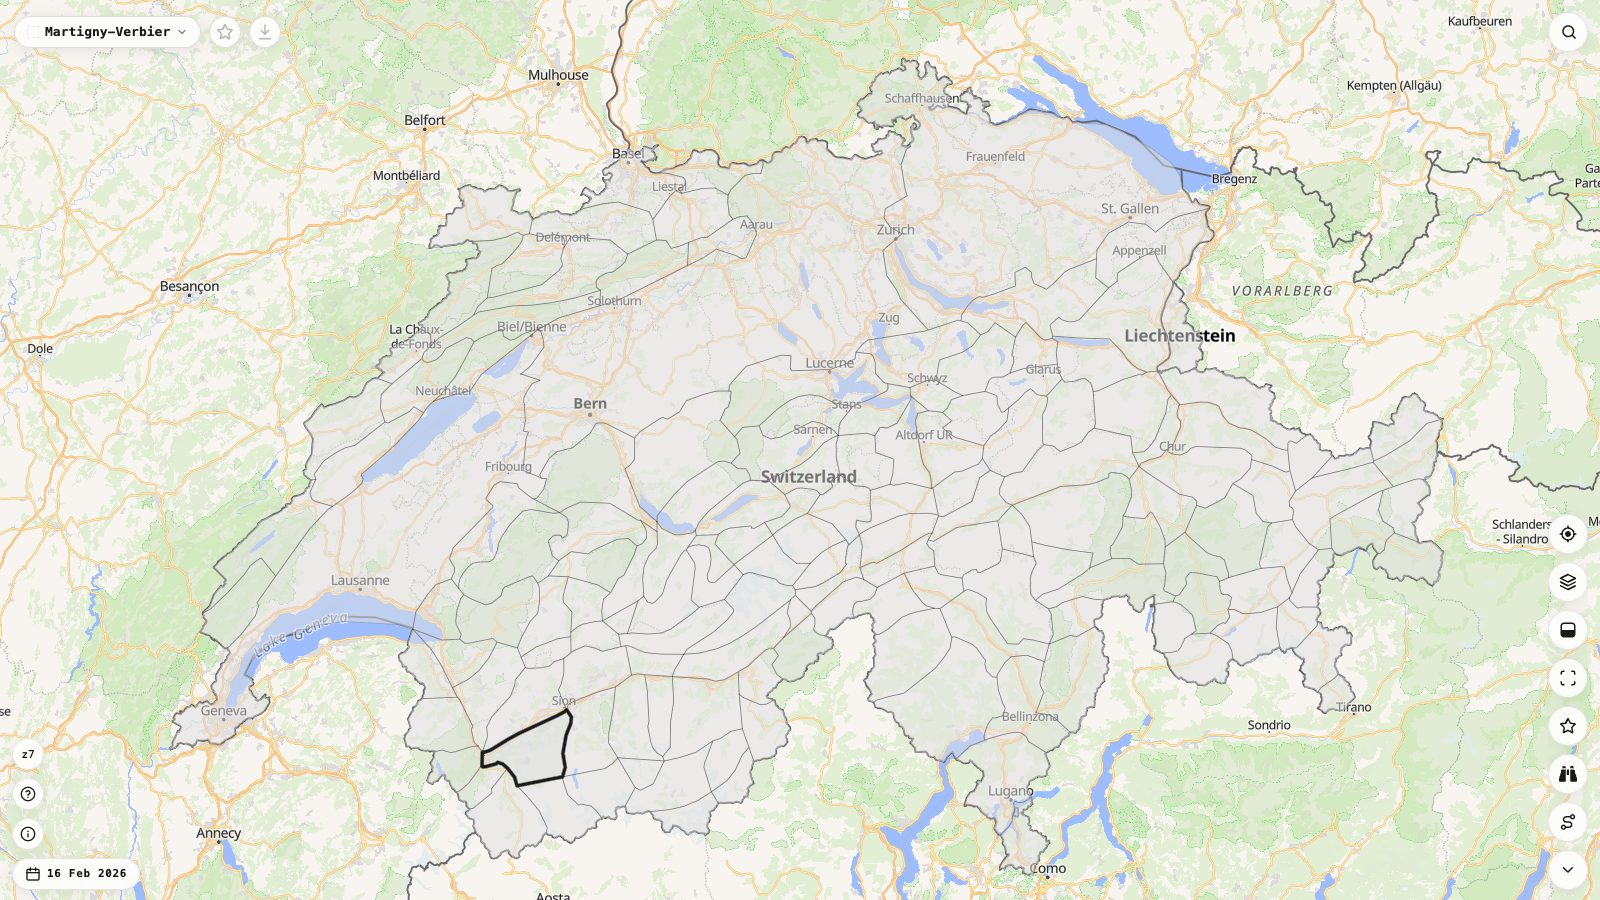
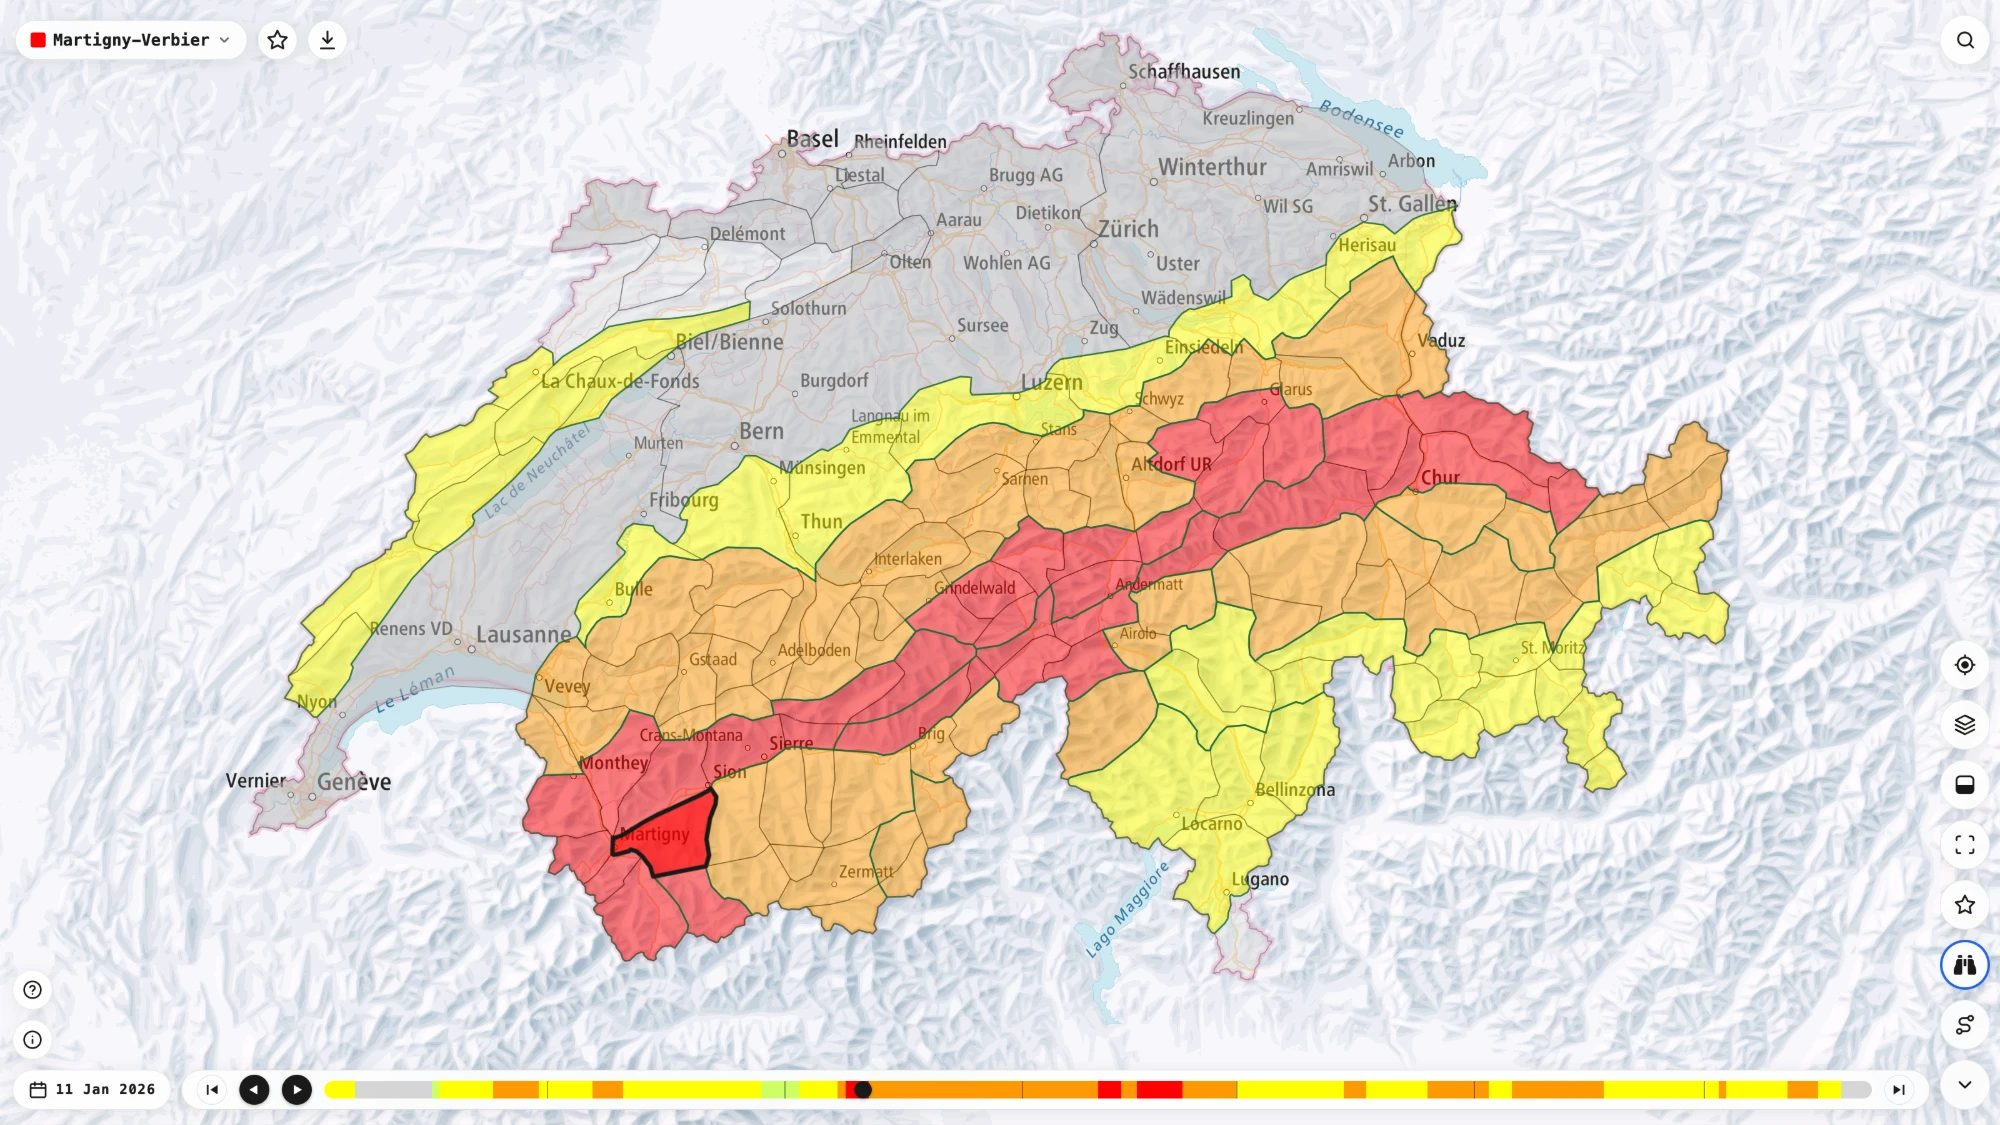
SNOW-1047: Replace the homepage placeholder with a still of 11 Jan 2026
Hugo's capture of the map on a rated day, cropped to 2000x1125 (16:9). The img width/height and alt text follow it.

diff --git a/apps/public/templates/public/home.html b/apps/public/templates/public/home.html
@@ -62,10 +62,10 @@ parameters never reaches this template — views.home 301s it to /map/.
             {# A still of the map, not the map: this page loads no map JavaScript. #}
             <img
                 src="{% static 'img/home/map.jpg' %}"
-                width="1600"
-                height="900"
+                width="2000"
+                height="1125"
                 class="block w-full h-auto"
-                alt="{% trans 'The Snowdesk map: Switzerland and its neighbours divided into avalanche warning regions.' %}"
+                alt="{% trans 'The Snowdesk map on 11 January 2026: Swiss avalanche warning regions coloured by danger level, with Martigny–Verbier selected and the season timeline along the bottom.' %}"
             >
         </a>
 
